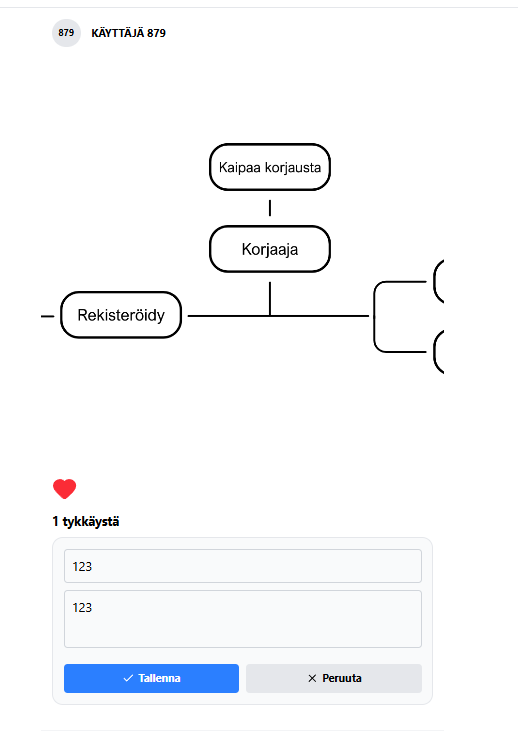
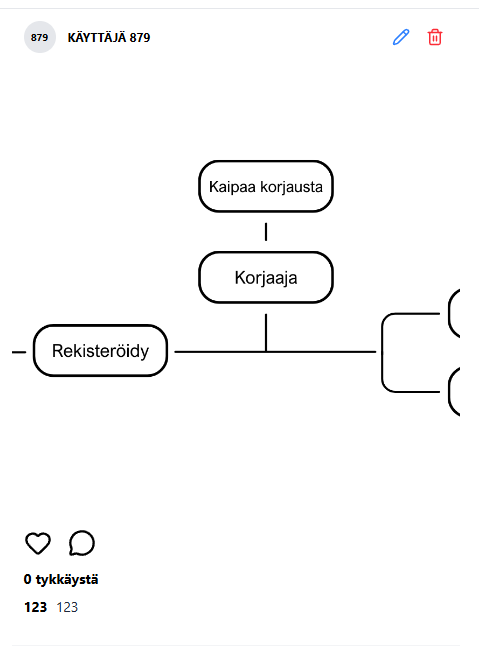
feat: add upload and comments screenshots to README

diff --git a/README.md b/README.md
@@ -12,7 +12,9 @@ Backend: Metropolia REST API
 ## Kuvat
 Etusivu: ![Etusivu](public/screenshots/main.png)
 Profiili: ![Profiili](public/screenshots/profil.png)
+Upload: ![Upload](public/screenshots/upload.png)
 Muokkaustila: ![Muokkaus](public/screenshots/edit.png)
+Kommentit: ![Kommentit](public/screenshots/comments.png)
 
 ## Käyttöönotto
 1. Asenna: npm install
